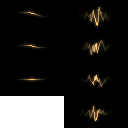
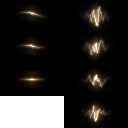
fixed issue with texture colorspace for emission and matcap, removed excess logging, adjusted chef face

diff --git a/scripts/OffsetUVs.cs b/scripts/OffsetUVs.cs
@@ -26,7 +26,6 @@ public partial class OffsetUVs : Node
 
     public void SetOffset(Vector2 offset)
     {
-        GD.Print($"Offset: {offset}");
         Offset = offset;
     }
 }
